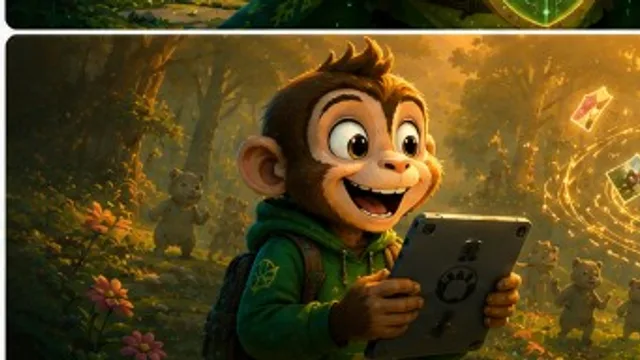
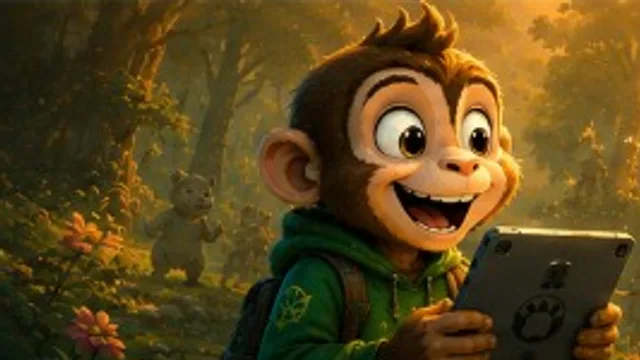
feat: update story cover assets and improve cropping script
- Added detailed documentation for bundled card covers in STORY_VISUAL_ASSET_REGISTRY.md, outlining the source files and their usage.
- Enhanced the cropping script to support new cover generation logic for episodes 1-8, including improved trimming and positioning.
- Updated story cover asset imports to dynamically load existing covers and added new cover position handling in storyCoverAssets.ts.
- Modified StoryCoverArt component to utilize the new cover position logic for better visual alignment.

diff --git a/src/data/storyCoverAssets.ts b/src/data/storyCoverAssets.ts
@@ -1,15 +1,53 @@
 import type { Story } from './stories';
-import coverEp1 from '../assets/story-covers/episode-1-cover.webp?url';
-import coverEp2 from '../assets/story-covers/episode-2-cover.webp?url';
-import coverEp3 from '../assets/story-covers/episode-3-cover.webp?url';
 
-/** Bundled cover URLs (Vite resolves at build time). */
-export const STORY_COVER_BY_SLUG: Record<string, string> = {
-  'privacy-panda-and-the-digital-bamboo-forest': coverEp1,
-  'miki-and-the-photo-that-flew-away': coverEp2,
-  'owen-and-the-sneaky-settings': coverEp3,
+/** Episode order must match crop script grid: row-major 1–8. */
+const EPISODE_SLUGS = [
+  'privacy-panda-and-the-digital-bamboo-forest',
+  'miki-and-the-photo-that-flew-away',
+  'billys-invisible-collection',
+  'mika-and-the-sneaky-settings',
+  'ruby-and-the-very-friendly-stranger',
+  'the-day-the-password-was-too-short',
+  'when-miki-said-something-unkind',
+  'pos-toughest-question',
+] as const;
+
+const coverModules = import.meta.glob('../assets/story-covers/episode-*-cover.webp', {
+  eager: true,
+  import: 'default',
+}) as Record<string, string>;
+
+function coverUrlForEpisode(episodeNumber: number): string | undefined {
+  const key = `../assets/story-covers/episode-${episodeNumber}-cover.webp`;
+  return coverModules[key];
+}
+
+/** Bundled cover URLs (Vite resolves at build time). Only existing WebPs are included. */
+export const STORY_COVER_BY_SLUG: Record<string, string> = Object.fromEntries(
+  EPISODE_SLUGS.flatMap((slug, index) => {
+    const url = coverUrlForEpisode(index + 1);
+    return url ? [[slug, url] as const] : [];
+  }),
+);
+
+/** Per-episode object-position hints when poster title chrome was trimmed in crop. */
+const COVER_POSITION_BY_SLUG: Record<string, string> = {
+  'privacy-panda-and-the-digital-bamboo-forest': '32% center',
+  'mika-and-the-photo-that-flew-away': 'center',
+  'billys-invisible-collection': 'center',
+  'mika-and-the-sneaky-settings': 'center top',
 };
 
 export function getStoryCoverUrl(story: Story): string | undefined {
   return STORY_COVER_BY_SLUG[story.slug] ?? story.coverImage;
+}
+
+export function getStoryCoverPosition(story: Story, variant: 'hero' | 'card'): string {
+  if (variant === 'hero' && story.coverHeroImagePosition) {
+    return story.coverHeroImagePosition;
+  }
+  if (story.coverImagePosition) {
+    return story.coverImagePosition;
+  }
+  return COVER_POSITION_BY_SLUG[story.slug] ?? 'center';
 }

diff --git a/src/data/stories.test.ts b/src/data/stories.test.ts
@@ -19,25 +19,39 @@ describe('stories registry', () => {
     expect(isFoundationStory(foundation!)).toBe(true);
   });
 
-  it('publishes all three registry episodes', () => {
-    const published = getPublishedStories();
-    const slugs = published.map((s) => s.slug);
+  it('registers sixteen episodes across two seasons', () => {
+    expect(STORIES).toHaveLength(16);
+    expect(STORIES.map((s) => s.episodeNumber)).toEqual([
+      1, 2, 3, 4, 5, 6, 7, 8, 9, 10, 11, 12, 13, 14, 15, 16,
+    ]);
+  });
+
+  it('uses canonical Season 1 slugs for episodes 1–4', () => {
+    const slugs = STORIES.slice(0, 4).map((s) => s.slug);
     expect(slugs).toEqual([
       'privacy-panda-and-the-digital-bamboo-forest',
       'miki-and-the-photo-that-flew-away',
-      'owen-and-the-sneaky-settings',
+      'billys-invisible-collection',
+      'mika-and-the-sneaky-settings',
     ]);
-    expect(STORIES.every((s) => isStoryPublished(s))).toBe(true);
+  });
+
+  it('publishes episodes without a future scheduledAt', () => {
+    const published = getPublishedStories();
+    expect(published.length).toBeGreaterThanOrEqual(13);
+    expect(published.every((s) => isStoryPublished(s))).toBe(true);
+    expect(published.some((s) => s.slug === 'billys-invisible-collection')).toBe(true);
   });
 
   it('lists continuation episodes without the foundation story', () => {
     const continuation = getContinuationStories();
-    expect(continuation.map((s) => s.episodeNumber)).toEqual([2, 3]);
     expect(continuation.every((s) => !isFoundationStory(s))).toBe(true);
+    expect(continuation[0]?.episodeNumber).toBe(2);
   });
 
-  it('returns no coming-soon story when all episodes are published', () => {
-    expect(getNextScheduledStory()).toBeUndefined();
+  it('returns the next scheduled story when future episodes exist', () => {
+    const next = getNextScheduledStory();
+    expect(next?.slug).toBe('lumis-light');
   });
 
   it('resolves slugs for all registry entries', () => {

diff --git a/src/data/stories.ts b/src/data/stories.ts
@@ -89,6 +89,10 @@ export interface Story {
   scheduledAt?: string;
   coverEmoji: string;
   coverColor: string;
+  /** Optional bundled or public URL override (see storyCoverAssets.ts). */
+  coverImage?: string;
+  coverImagePosition?: string;
+  coverHeroImagePosition?: string;
   summary: string;
   chapters: StoryChapter[];
   keyLesson: string;
@@ -118,6 +122,7 @@ const episode1: Story = {
   publishedAt: '2024-01-01',
   coverEmoji: '🐼',
   coverColor: 'bg-emerald-100',
+  coverHeroImagePosition: '32% center',
   summary: 'Po accidentally shares everything with the entire forest and learns from wise Tao how to protect his information — and becomes its guide because of the mistake he made.',
   keyLesson: 'In the Digital Bamboo Forest, we must be as careful with our information as we are with our real bamboo treasures.',
   chapters: [
@@ -2050,3 +2055,21 @@ export const getNextScheduledStory = (): Story | undefined =>
   STORIES
     .filter((s) => s.scheduledAt && new Date(s.scheduledAt) > new Date())
     .sort((a, b) => new Date(a.scheduledAt!).getTime() - new Date(b.scheduledAt!).getTime())[0];
+
+export const ORIGIN_STORY_SLUG = 'privacy-panda-and-the-digital-bamboo-forest';
+
+export const isFoundationStory = (story: Story): boolean =>
+  story.isOrigin === true || story.slug === ORIGIN_STORY_SLUG;
+
+export const getFoundationStory = (): Story | undefined =>
+  STORIES.find((s) => isFoundationStory(s));
+
+export const getContinuationStories = (): Story[] =>
+  getPublishedStories().filter((s) => !isFoundationStory(s));
+
+export const isStoryPublished = (story: Story): boolean => {
+  if (story.scheduledAt && new Date(story.scheduledAt) > new Date()) {
+    return false;
+  }
+  return true;
+};

diff --git a/src/components/stories/StoryCoverArt.tsx b/src/components/stories/StoryCoverArt.tsx
@@ -1,6 +1,6 @@
 import { useState } from 'react';
 import { Story, isFoundationStory } from '../../data/stories';
-import { getStoryCoverUrl } from '../../data/storyCoverAssets';
+import { getStoryCoverPosition, getStoryCoverUrl } from '../../data/storyCoverAssets';
 
 const PANDAGARDE_LOGO = '/LogoPandagarde.png';
 
@@ -11,10 +11,7 @@ interface StoryCoverArtProps {
 }
 
 function coverPosition(story: Story, variant: StoryCoverArtProps['variant']): string {
-  if (variant === 'hero' && story.coverHeroImagePosition) {
-    return story.coverHeroImagePosition;
-  }
-  return story.coverImagePosition ?? 'center';
+  return getStoryCoverPosition(story, variant === 'hero' ? 'hero' : 'card');
 }
 
 function CoverImage({

diff --git a/src/assets/story-covers/sources/README.md b/src/assets/story-covers/sources/README.md
@@ -1,0 +1,51 @@
+# Story cover source sheets
+
+Place production art here, then run from repo root:
+
+```bash
+npm run assets:story-covers
+```
+
+## Required for Season 1 (Episodes 1–8)
+
+| Save attached file as | Contents |
+|---|---|
+| **`season-1-covers-4x2.png`** | 4×2 grid of episode posters (PANDAGARDE Episodes 1–8). Crop order: row 1 → Ep 1–4, row 2 → Ep 5–8. |
+
+The crop script trims ~11.5% top (title pill) and ~13.5% bottom (logo) per cell, plus **7.5% per side** on shared column borders and **4.5%** on the row split — so neighboring panels should not bleed into the card frame.
+
+### Tunables (in `scripts/crop-story-covers.mjs`)
+
+| Constant | Default | Purpose |
+|---|---|---|
+| `INNER_COL_GUTTER` | 0.075 | Horizontal shave at column boundaries (each cell takes half) |
+| `INNER_ROW_GUTTER` | 0.045 | Vertical shave between row 1 and row 2 |
+| `CHROME_TOP` / `CHROME_BOTTOM` | 0.115 / 0.135 | Title badge and bottom logo |
+| `OUTER_EDGE` | 0.02 | Sheet outer margin only |
+
+If a panel still shows a sliver of the neighbor, increase `INNER_COL_GUTTER` (e.g. `0.09`) and re-run `npm run assets:story-covers`.
+
+### Canonical slug mapping (grid position → `stories.ts`)
+
+| Grid cell | Episode | `stories.ts` slug | Notes |
+|---|---|---|---|
+| Row 0, Col 0 | 1 | `privacy-panda-and-the-digital-bamboo-forest` | ✓ |
+| Row 0, Col 1 | 2 | `miki-and-the-photo-that-flew-away` | ✓ |
+| Row 0, Col 2 | 3 | `billys-invisible-collection` | ✓ Art title matches |
+| Row 0, Col 3 | 4 | `mika-and-the-sneaky-settings` | Art says "Owen" — owl/tablet still fits Mika |
+| Row 1, Col 0 | 5 | `ruby-and-the-very-friendly-stranger` | Art: Bridge of Consent — reuse until stranger art exists |
+| Row 1, Col 1 | 6 | `the-day-the-password-was-too-short` | Art: Tao backup — reuse until password art exists |
+| Row 1, Col 2 | 7 | `when-miki-said-something-unkind` | Art: Shadow Mist — reuse until stream/unkind art exists |
+| Row 1, Col 3 | 8 | `pos-toughest-question` | Art: Campfire + firefly — Lumi fits Ep 8 |
+
+## Optional — chapter & brand assets
+
+| Save as | Use |
+|---|---|
+| `episodes-1-3-storyboard.png` | Ep 1–3 cover columns + 10 scene thumbs each + zone/pillar/character icons (future chapter crops) |
+| `season-2-zones-4x4.png` | 16 zone posters — **not** wired to Ep 9–16 story slugs (different titles); use for forest map / zone unlock art |
+
+## Legacy (fallback if grid missing)
+
+- `../episode-1-hero-source.png` — single Ep 1 hero
+- `../story-covers-master.png` — stacked Ep 2–3 only

diff --git a/docs/STORY_VISUAL_ASSET_REGISTRY.md b/docs/STORY_VISUAL_ASSET_REGISTRY.md
@@ -60,6 +60,27 @@ Regenerate bundled card covers after updating sources:
 npm run assets:story-covers
 ```
 
+### Bundled card covers (`StoryCard`, `StoryCoverArt`)
+
+Story list cards use **640×360 WebP** crops in `src/assets/story-covers/episode-{n}-cover.webp`, wired by slug in [storyCoverAssets.ts](../src/data/storyCoverAssets.ts).
+
+| Save production sheet as | Delivers |
+|---|---|
+| `src/assets/story-covers/sources/season-1-covers-4x2.png` | Ep 1–8 card covers (4×2 grid, row-major) |
+| `src/assets/story-covers/sources/episodes-1-3-storyboard.png` | Ep 1–3 hero columns + 10 scene thumbs each + pillar/zone/character icons (future chapter crops) |
+| `src/assets/story-covers/sources/season-2-zones-4x4.png` | 16 zone posters — **do not** map 1:1 to Ep 9–16 slugs (different titles); use for forest map / zone unlock art |
+
+See [sources/README.md](../src/assets/story-covers/sources/README.md) for grid→slug mapping, gutter insets, and crop tunables.
+
+| Status | Ep | Bundled path | Source panel |
+|---|---|---|---|
+| [x] | 1 | `src/assets/story-covers/episode-1-cover.webp` | Grid R0C0 or legacy hero |
+| [x] | 2 | `episode-2-cover.webp` | Grid R0C1 or legacy master band |
+| [~] | 3 | `episode-3-cover.webp` | Grid R0C2 — **legacy band is Owen-era; replace with grid** |
+| [ ] | 4–8 | `episode-4-cover.webp` … `episode-8-cover.webp` | Grid R0C3, R1C0–R1C3 — pending `season-1-covers-4x2.png` in repo |
+
+**Art vs. canon (Ep 5–8 panels):** attached posters use zone-themed titles (Bridge, Backup, Shadow Mist, Campfire). They are **interim card art** until story-specific covers ship at `public/stories/{slug}/cover.webp`.
+
 ---
 
 ## Foundation library (shared across episodes)
@@ -140,7 +161,7 @@ npm run assets:story-covers
 
 | Status | Asset | Chapter | Scene brief | Target path | Legacy / notes |
 |---|---|---|---|---|---|
-| [~] | Cover | — | Po shy at Bamboo Gate with tablet; glowing paths behind | `public/stories/privacy-panda-and-the-digital-bamboo-forest/cover.webp` | `public/images/stories/covers/episode-1-bamboo-forest.svg` |
+| [x] | Cover (card) | — | Po at Bamboo Gate — bundled `episode-1-cover.webp` | `public/stories/privacy-panda-and-the-digital-bamboo-forest/cover.webp` | `public/images/stories/covers/episode-1-bamboo-forest.svg` |
 | [~] | Ch1 | The Shy Panda | Po hiding behind bamboo, tablet in paws, alone | `…/ch1.webp` | `public/images/story/01-PoInTheShadows.png` |
 | [~] | Ch2 | The Wrong Button | Alert + messages flooding; Po shocked | `…/ch2.webp` | `3-TheAccident.png`, `04-PublicReaction.png` |
 | [~] | Ch3 | Tao's Wisdom | Tao at den door with lantern; Privacy Shield intro | `…/ch3.webp` | `06-Turtle-Appears.png`, `07-LearningMoments.png` |
@@ -168,7 +189,7 @@ npm run assets:story-covers
 
 | Status | Asset | Chapter | Scene brief | Target path |
 |---|---|---|---|---|
-| [~] | Cover | — | Photo flying toward Bridge of Consent; Miki's tablet | `public/stories/miki-and-the-photo-that-flew-away/cover.webp` |
+| [x] | Cover (card) | — | Photo flying — bundled `episode-2-cover.webp` | `public/stories/miki-and-the-photo-that-flew-away/cover.webp` |
 | [ ] | Ch1 | Ruby's Secret Sculpture | Ruby with unfinished sculpture, not ready to show | `…/ch1.webp` |
 | [ ] | Ch2 | Miki Means Well | Miki snapping photo; Ruby reaching "Wait—" | `…/ch2.webp` |
 | [ ] | Ch3 | How Ruby Felt | Ruby hurt; praise messages she didn't choose | `…/ch3.webp` |
@@ -188,7 +209,7 @@ npm run assets:story-covers
 
 | Status | Asset | Chapter | Scene brief | Target path |
 |---|---|---|---|---|
-| [ ] | Cover | — | Billy unveiling location map; friends' dots visible | `public/stories/billys-invisible-collection/cover.webp` |
+| [~] | Cover (card) | — | Billy + digital trail — **replace legacy Owen band** via grid R0C2 | `public/stories/billys-invisible-collection/cover.webp` |
 | [ ] | Ch1 | Billy's Big Idea | Billy building secret real-time map | `…/ch1.webp` |
 | [ ] | Ch2 | The Map Goes Live | Friends discover map; feel watched | `…/ch2.webp` |
 | [ ] | Ch3 | What the Archive Remembers | Mika at Archive with path scroll | `…/ch3.webp` |